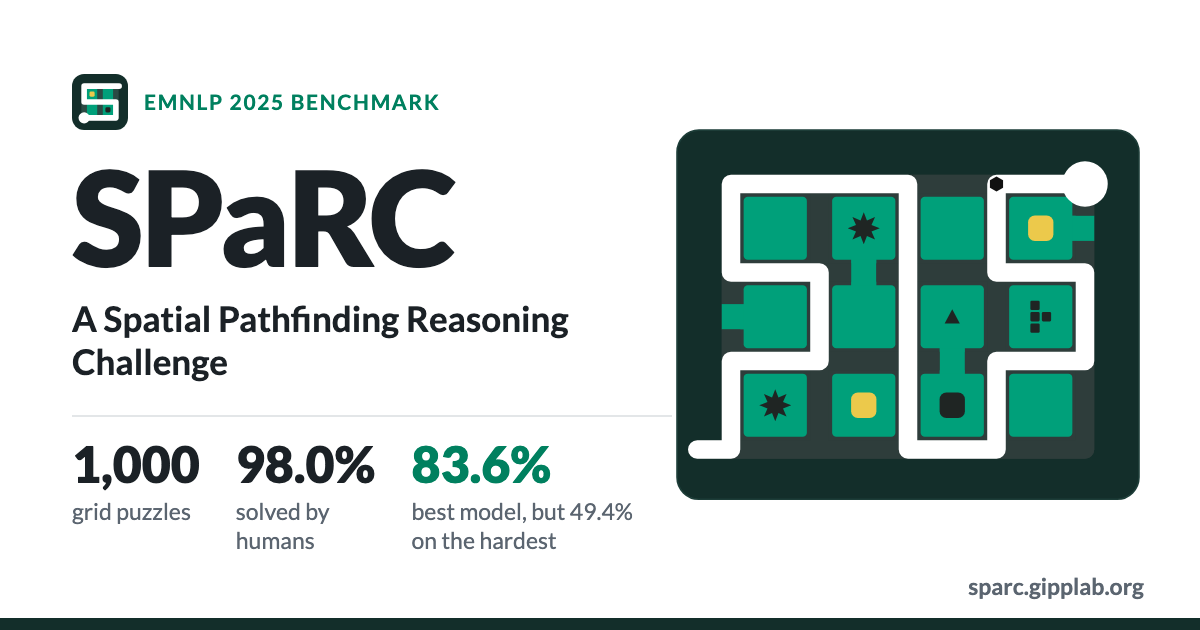
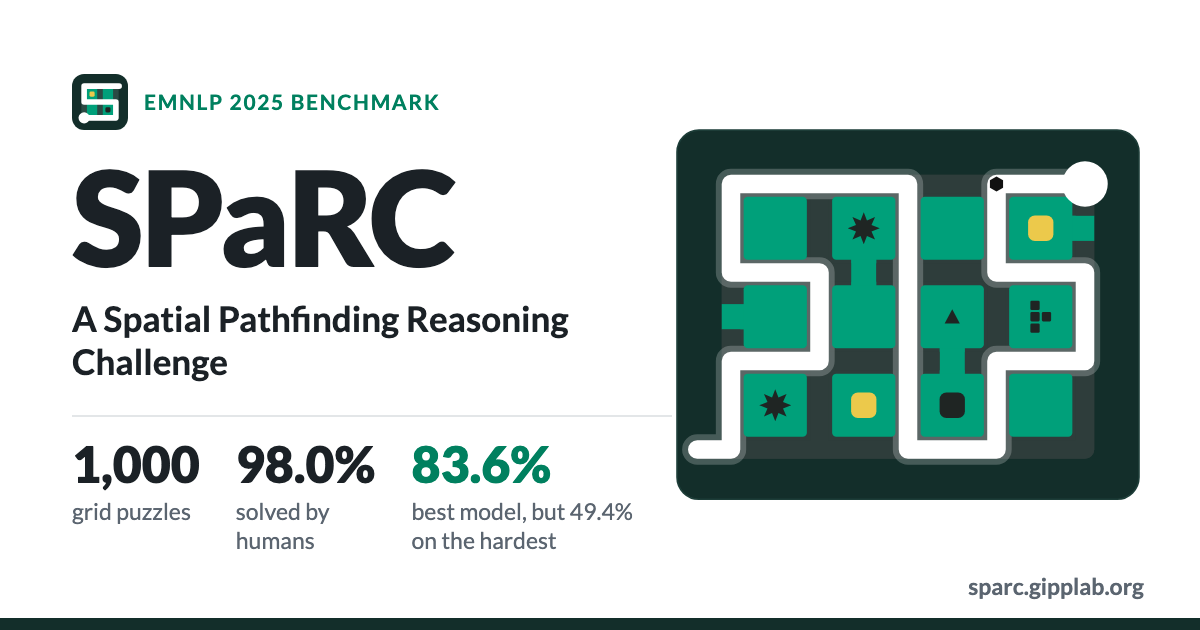
Header puzzle: bring back the glow along the line, under the cells
The glow now lies under the cells, so it highlights the line on the track and around the board without tinting the cells. Preview card updated (?v=5).

diff --git a/index.html b/index.html
@@ -23,7 +23,7 @@
     <meta property="og:url" content="https://sparc.gipplab.org/">
     <meta property="og:title" content="SPaRC – Spatial Pathfinding Reasoning Challenge">
     <meta property="og:description" content="1,000 grid puzzles that test spatial reasoning. Humans solve 98.0% of them. The best model solves 83.6%, but only 49.4% of the hardest. Play the puzzles, see the leaderboard and evaluate your own model.">
-    <meta property="og:image" content="https://sparc.gipplab.org/graphics/og-card.png?v=4">
+    <meta property="og:image" content="https://sparc.gipplab.org/graphics/og-card.png?v=5">
     <meta property="og:image:type" content="image/png">
     <meta property="og:image:width" content="1200">
     <meta property="og:image:height" content="630">
@@ -31,7 +31,7 @@
     <meta name="twitter:card" content="summary_large_image">
     <meta name="twitter:title" content="SPaRC – Spatial Pathfinding Reasoning Challenge">
     <meta name="twitter:description" content="1,000 grid puzzles that test spatial reasoning. Humans solve 98.0% of them. The best model solves 83.6%, but only 49.4% of the hardest.">
-    <meta name="twitter:image" content="https://sparc.gipplab.org/graphics/og-card.png?v=4">
+    <meta name="twitter:image" content="https://sparc.gipplab.org/graphics/og-card.png?v=5">
     <meta name="twitter:image:alt" content="SPaRC logo and title next to a solved level 5 puzzle.">
     <link rel="canonical" href="https://sparc.gipplab.org/">
     <!-- Discord link preview with buttons (https://docs.discord.com/developers/link-previews/component-embeds).
@@ -373,10 +373,11 @@
           <rect x="6" y="6" width="548" height="438" rx="26" fill="none" stroke="#1d3d38" stroke-width="2"/>
           <rect x="59.0" y="59.0" width="442.0" height="337.0" rx="11" fill="#2e3d3b"/>
           <g fill="#00a07a"><rect x="472.0" y="107.5" width="29.0" height="30"/><rect x="212.5" y="157.0" width="30" height="36.0"/><rect x="59.0" y="212.5" width="29.0" height="30"/><rect x="317.5" y="262.0" width="30" height="36.0"/></g>
-          <g fill="#00a07a"><rect x="85.0" y="85.0" width="75" height="75" rx="5"/><rect x="190.0" y="85.0" width="75" height="75" rx="5"/><rect x="295.0" y="85.0" width="75" height="75" rx="5"/><rect x="400.0" y="85.0" width="75" height="75" rx="5"/><rect x="85.0" y="190.0" width="75" height="75" rx="5"/><rect x="190.0" y="190.0" width="75" height="75" rx="5"/><rect x="295.0" y="190.0" width="75" height="75" rx="5"/><rect x="400.0" y="190.0" width="75" height="75" rx="5"/><rect x="85.0" y="295.0" width="75" height="75" rx="5"/><rect x="190.0" y="295.0" width="75" height="75" rx="5"/><rect x="295.0" y="295.0" width="75" height="75" rx="5"/><rect x="400.0" y="295.0" width="75" height="75" rx="5"/></g>
           <path d="M70.0 70.0 L175.0 70.0 M175.0 70.0 L280.0 70.0 M280.0 70.0 L385.0 70.0 M385.0 70.0 L490.0 70.0 M70.0 70.0 L70.0 175.0 M175.0 70.0 L175.0 175.0 M280.0 70.0 L280.0 175.0 M385.0 70.0 L385.0 175.0 M70.0 175.0 L175.0 175.0 M280.0 175.0 L385.0 175.0 M385.0 175.0 L490.0 175.0 M175.0 175.0 L175.0 280.0 M280.0 175.0 L280.0 280.0 M385.0 175.0 L385.0 280.0 M490.0 175.0 L490.0 280.0 M70.0 280.0 L175.0 280.0 M175.0 280.0 L280.0 280.0 M385.0 280.0 L490.0 280.0 M70.0 280.0 L70.0 385.0 M175.0 280.0 L175.0 385.0 M280.0 280.0 L280.0 385.0 M385.0 280.0 L385.0 385.0 M490.0 280.0 L490.0 385.0 M70.0 385.0 L175.0 385.0 M175.0 385.0 L280.0 385.0 M280.0 385.0 L385.0 385.0 M385.0 385.0 L490.0 385.0" stroke="#2e3d3b" stroke-width="22" stroke-linecap="round" fill="none"/>
           <path d="M490.0 70.0 L490.0 107.5 M490.0 137.5 L490.0 175.0 M175.0 175.0 L212.5 175.0 M242.5 175.0 L280.0 175.0 M70.0 175.0 L70.0 212.5 M70.0 242.5 L70.0 280.0 M280.0 280.0 L317.5 280.0 M347.5 280.0 L385.0 280.0" stroke="#2e3d3b" stroke-width="22" stroke-linecap="butt" fill="none"/>
           <path d="M70.0 385.0 L30.0 385.0" stroke="#2e3d3b" stroke-width="22" stroke-linecap="round" fill="none"/>
+          <path class="glow" pathLength="1" d="M490.0 70.0 L437.5 70.0 L385.0 70.0 L385.0 122.5 L385.0 175.0 L437.5 175.0 L490.0 175.0 L490.0 227.5 L490.0 280.0 L437.5 280.0 L385.0 280.0 L385.0 332.5 L385.0 385.0 L332.5 385.0 L280.0 385.0 L280.0 332.5 L280.0 280.0 L280.0 227.5 L280.0 175.0 L280.0 122.5 L280.0 70.0 L227.5 70.0 L175.0 70.0 L122.5 70.0 L70.0 70.0 L70.0 122.5 L70.0 175.0 L122.5 175.0 L175.0 175.0 L175.0 227.5 L175.0 280.0 L122.5 280.0 L70.0 280.0 L70.0 332.5 L70.0 385.0 L30.0 385.0" fill="none" stroke="#ffffff" stroke-opacity="0.22" stroke-width="36" stroke-linecap="round" stroke-linejoin="round"/>
+          <g fill="#00a07a"><rect x="85.0" y="85.0" width="75" height="75" rx="5"/><rect x="190.0" y="85.0" width="75" height="75" rx="5"/><rect x="295.0" y="85.0" width="75" height="75" rx="5"/><rect x="400.0" y="85.0" width="75" height="75" rx="5"/><rect x="85.0" y="190.0" width="75" height="75" rx="5"/><rect x="190.0" y="190.0" width="75" height="75" rx="5"/><rect x="295.0" y="190.0" width="75" height="75" rx="5"/><rect x="400.0" y="190.0" width="75" height="75" rx="5"/><rect x="85.0" y="295.0" width="75" height="75" rx="5"/><rect x="190.0" y="295.0" width="75" height="75" rx="5"/><rect x="295.0" y="295.0" width="75" height="75" rx="5"/><rect x="400.0" y="295.0" width="75" height="75" rx="5"/></g>
           <polygon points="227.5,103.5 231.3,113.3 240.9,109.1 236.7,118.7 246.5,122.5 236.7,126.3 240.9,135.9 231.3,131.7 227.5,141.5 223.7,131.7 214.1,135.9 218.3,126.3 208.5,122.5 218.3,118.7 214.1,109.1 223.7,113.3" fill="#1f2523"/><rect x="422.5" y="107.5" width="30" height="30" rx="8" fill="#ecc94b"/><polygon points="323.5,235.5 332.5,218.5 341.5,235.5" fill="#1f2523"/><rect x="425.2" y="208.5" width="11" height="11" rx="1.5" fill="#1f2523"/><rect x="425.2" y="222.0" width="11" height="11" rx="1.5" fill="#1f2523"/><rect x="438.8" y="222.0" width="11" height="11" rx="1.5" fill="#1f2523"/><rect x="425.2" y="235.5" width="11" height="11" rx="1.5" fill="#1f2523"/><polygon points="122.5,313.5 126.3,323.3 135.9,319.1 131.7,328.7 141.5,332.5 131.7,336.3 135.9,345.9 126.3,341.7 122.5,351.5 118.7,341.7 109.1,345.9 113.3,336.3 103.5,332.5 113.3,328.7 109.1,319.1 118.7,323.3" fill="#1f2523"/><rect x="212.5" y="317.5" width="30" height="30" rx="8" fill="#ecc94b"/><rect x="317.5" y="317.5" width="30" height="30" rx="8" fill="#1f2523"/>
           <path class="trace" pathLength="1" d="M490.0 70.0 L437.5 70.0 L385.0 70.0 L385.0 122.5 L385.0 175.0 L437.5 175.0 L490.0 175.0 L490.0 227.5 L490.0 280.0 L437.5 280.0 L385.0 280.0 L385.0 332.5 L385.0 385.0 L332.5 385.0 L280.0 385.0 L280.0 332.5 L280.0 280.0 L280.0 227.5 L280.0 175.0 L280.0 122.5 L280.0 70.0 L227.5 70.0 L175.0 70.0 L122.5 70.0 L70.0 70.0 L70.0 122.5 L70.0 175.0 L122.5 175.0 L175.0 175.0 L175.0 227.5 L175.0 280.0 L122.5 280.0 L70.0 280.0 L70.0 332.5 L70.0 385.0 L30.0 385.0" fill="none" stroke="#ffffff" stroke-width="22" stroke-linecap="round" stroke-linejoin="round"/>
           <circle class="start" cx="490.0" cy="70.0" r="27" fill="#ffffff" style="transform-origin: 490.0px 70.0px"/>
